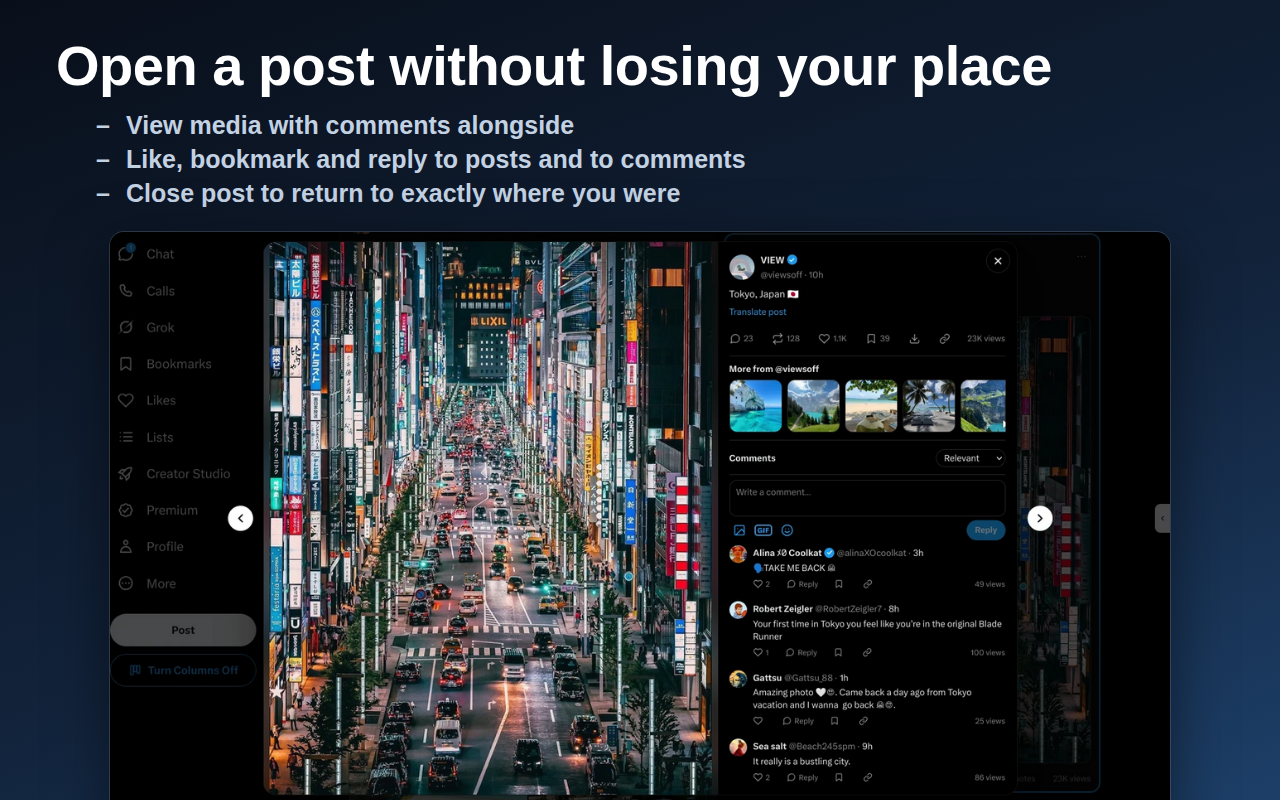
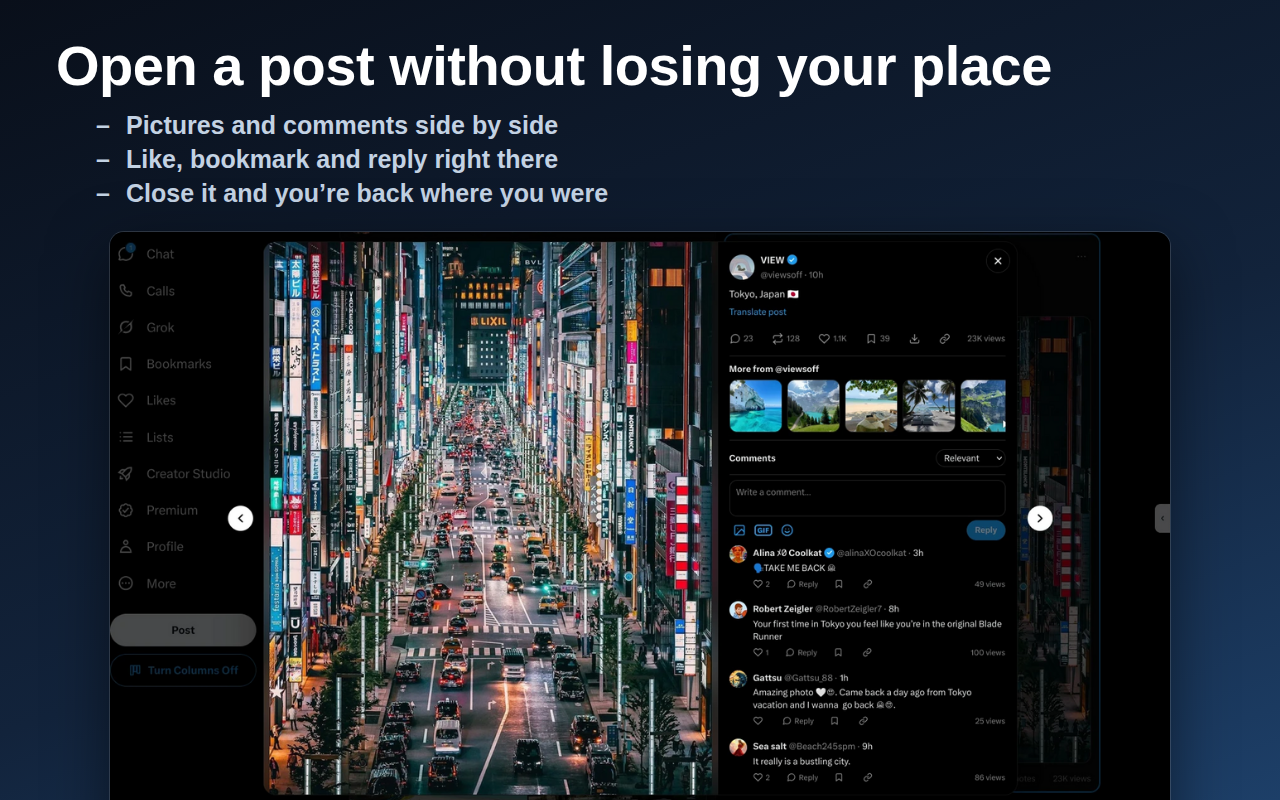
Store: plainer wording for the slides, the listing and the release notes; the themes picture starts under the top bar
Claude-Session: https://claude.ai/code/session_018kEDBPkK9jgvVfS9DEM5ks

Changed region(s): [[0.0938, 0.125, 0.5938, 0.25]]

diff --git a/store/make-slides.js b/store/make-slides.js
@@ -12,16 +12,16 @@ const { chromium } = require('playwright-core');
 const DIR = path.join(__dirname, 'screenshots');
 const OUT = path.join(DIR, 'slides');
 // feed: true marks a shot of the feed itself. The stand-in feed is invented posts on generated art; a real one from X is better there,
-// so these are the ones to replace (own/<same name>.png). The wording is from the "Store slide wording" page.
+// so these are the ones to replace (own/<same name>.png). The wording is plain on purpose: the people reading it want a good extension, not an explanation.
 const SLIDES = [
-  { file: '01-columns', feed: true, title: 'Your feed in columns', bullets: ['See far more at once using the whole screen', 'Columns resize automatically to your screen resolution', 'Hide Trending, Who to follow and Premium boxes'] },
-  { file: '08-reels', title: 'Doomscroll with style', bullets: ['One post at a time, scrolled up and down', 'Videos play with sound and loop', 'Shift + wheel or the arrow keys move to the next post'] },
-  { file: '02-post-panel', title: 'Open a post without losing your place', bullets: ['View media with comments alongside', 'Like, bookmark and reply to posts and to comments', 'Close post to return to exactly where you were'] },
-  { file: '09-reply-tools', title: 'Reply with pictures and emoji', bullets: ['Pictures, GIFs and emoji from the comment box', 'Reply to the post or to any comment in-panel'] },
-  { file: '11-media-wall', title: 'Media tabs as a gallery', bullets: ['Every picture and video in rows, edge to edge', 'Switch between Columns and Gallery in the top bar', 'Open a post, or start Reels from any picture'] },
-  { file: '10-keys', title: 'Browse with your keyboard', bullets: ['Vim keys (j k, w a s d, f to like, o to open) or a simple set', 'Arrow keys step through pictures, then posts', 'Remap any key in settings'] },
-  { file: '13-themes', title: 'Fourteen colour themes', bullets: ['Catppuccin, Gruvbox, Ros\u00e9 Pine, Dracula, Tokyo Night, Nord and more', 'The columns, the post panel and the settings follow', 'Or keep X\u2019s own colours'] },
-  { file: '03-photo-viewer', title: 'Photos and video, done properly', bullets: ['Open photos in a viewer, with Download and Copy link', 'Original-size photos and the best video quality, one click', 'Point at a video for a muted preview'] },
+  { file: '01-columns', feed: true, title: 'Your feed in columns', bullets: ['See far more at once', 'Fits your screen, big or small', 'Hide Trending, Who to follow and Premium'] },
+  { file: '08-reels', title: 'Doomscroll with style', bullets: ['One post at a time, full screen', 'Videos play with sound and loop', 'Next post with the wheel or arrow keys'] },
+  { file: '02-post-panel', title: 'Open a post without losing your place', bullets: ['Pictures and comments side by side', 'Like, bookmark and reply right there', 'Close it and you\u2019re back where you were'] },
+  { file: '09-reply-tools', title: 'Reply with pictures and emoji', bullets: ['Add pictures, GIFs and emoji', 'Reply to the post or to any comment'] },
+  { file: '11-media-wall', title: 'Every picture, in a gallery', bullets: ['Photos and videos in rows, edge to edge', 'Switch between Columns and Gallery any time', 'Open a post, or start Reels from any picture'] },
+  { file: '10-keys', title: 'Browse with your keyboard', bullets: ['Scroll, like and open posts without the mouse', 'Pick a ready-made set of keys', 'Change any key you like'] },
+  { file: '13-themes', title: 'Fourteen colour themes', bullets: ['Catppuccin, Gruvbox, Ros\u00e9 Pine, Dracula, Nord and more', 'Dark or light, to suit you', 'Or keep X\u2019s own colours'] },
+  { file: '03-photo-viewer', title: 'Photos and video, done properly', bullets: ['Open photos big, with Download and Copy link', 'Save full-size photos and the best video in one click', 'Hover over a video for a quiet preview'] },
 ];
 
 // the slide colours ("Ink" on the wording page): near-black blue running up to a mid navy, white headline, a paler tint for the lines under it

diff --git a/store/listing.md b/store/listing.md
@@ -3,66 +3,42 @@
 **Name:** Multi-Column for X
 (Option: "Multi-Column for X (Twitter)". Many people still search for "Twitter", and the add-on this listing is modelled on keeps the word in its name. Your call on the name.)
 
+
 **Summary (max 250 characters):**
-TweetDeck-style columns for X (Twitter): read your feed across the whole screen, open posts in a panel with their comments, download media in one click, and keep “For you” out of the way.
+Your X (Twitter) feed in columns that fill the whole screen. Open posts beside their comments, scroll Reels-style, save photos and videos in one click, and keep the algorithm out of the way.
 
 **Description:** (the first 250 characters matter most; Markdown: bold, lists and links work)
-Multi-Column for X has three aims: let you see far more of X at once, let you open a post without losing your place, and keep the algorithm out of the way.
+Multi-Column for X makes X (Twitter) feel the way it always should have. Your feed spreads across the whole screen in columns, posts open beside their comments so you never lose your place, and the algorithm stays out of the way.
 
-On install a welcome page asks five things on one screen: whether it may run on x.com (Firefox asks), how you want to start (Just columns, Calm with no algorithmic content, Media wall or Reels), which keys (Vim, Simple or none), which colours and whether to skip X's age check (an unticked box, marked 18+ only). Each is only a set of ordinary settings, picked as you choose it, and every one can be changed afterwards.
+**Why you'll like it**
+- **Columns that fit your screen.** See far more at once, from one column to eight. New posts wait behind a button instead of shoving your feed down while you read.
+- **Open a post without losing your place.** The picture sits big next to the comments. Like, bookmark, reply and translate right there, then close it and you're back where you were.
+- **Reply with pictures, GIFs and emoji**, to the post or to any comment.
+- **Reels, if you want them.** One post at a time, full screen, like TikTok. Videos play with sound and loop, and posts you've already seen are skipped.
+- **Photo galleries.** A profile's Media tab as a wall of pictures, edge to edge.
+- **Save in one click.** Full-size photos and the best-quality video, into the folder you choose.
+- **Browse with your keyboard.** Scroll, like, bookmark and open posts without the mouse. Pick a ready-made set of keys, or change any of them.
+- **Fourteen colour themes.** Catppuccin, Gruvbox, Rosé Pine, Dracula, Tokyo Night, Nord and more, dark or light. Or keep X's own colours.
+- **Your feed, your rules.** Start on Following with "For you" tucked away. Mute words and accounts, hide reposts or replies, blur sensitive pictures, and hide Trending, Who to follow and Premium.
+- **And more.** Search your Likes (X has no search there), followers and following as a grid, a bigger text size if you want one.
 
-By default your feed shows in columns that fit your window (up to eight), on the "Following" timeline, with "For you" hidden. Most settings apply the moment you change them, so open the settings page (the gear in the top bar) and make it yours.
+**Ready in a minute**
+A welcome page asks how you'd like to start (just columns, calm, a media wall or Reels), which keys and which colours. Change anything later from the gear in the top bar.
 
-**Columns and layout**
-- Columns fit your window and keep a comfortable width, down to one when the window is narrow. Pick your own number, or a different one for each page.
-- **Nothing jumps around.** New posts wait behind a "N new" button instead of shoving your feed down.
-- **More room:** pressing X's logo folds its left menu to icons, and a tab on the edge slides the right panel away; the columns grow into the space (Alt+[ and Alt+]).
-- **Settings in a panel:** from the toolbar button, or from the gear in the columns' bar over the page; every section folds out of a list, and there is a search.
-- **Smooth.** Posts load ahead of you as you scroll, and photos are ready by the time you get there.
-- **It tells you when X has changed something.** If X changes a button the extension presses, that one feature switches off with a message saying what was not found, instead of silently doing nothing; if the columns cannot work at all, X's own page is shown with a Report button. The settings page has a table of what is working, and "Save sample" keeps what is needed to fix a change.
-- **Easy to read and to press.** A text-size setting for posts and the panel, targets at least 24 px with names for screen readers, nothing moves when you ask for reduced motion, and the settings page has a search box and a Reset for anything you have changed.
-
-**Reading a post**
-- A panel opens over the columns with the picture large on one side and the words, actions and comments on the other. Esc closes it and you are exactly where you were.
-- Several pictures show one at a time with arrows and dots (the wheel and the sides of a picture flick between them). A quoted post opens in the panel too.
-- Comments load as you scroll and can be sorted by relevance, newest or most liked. Like, bookmark and reply to posts and to comments, and translate them with X's own translation.
-- **Reply with pictures, a GIF or emoji** from the comment box, to the post or to any comment, without leaving the panel.
-- **Keys:** the Vim set is the one the welcome page offers first: j k scroll, gg G, Ctrl+D and Ctrl+U, w a s d move a ring over the posts (the arrow keys do too, and so does the mouse: a key acts on the post under the pointer), o opens, f likes, b bookmarks, q copies the link, r starts Reels, ? lists every key. The Simple set (A S W E Q C in a post's panel) and no keys at all are the other two. ← → go through a post's pictures and then the posts, Shift and the wheel step through the posts from anywhere on the panel, M mutes the video. You can change any key in Settings, Keyboard.
-- **Reels view (optional):** like TikTok. One post at a time fills the page, scrolled up and down; videos play with sound and loop; posts you have already seen are skipped; a switch at the top changes between For you and Following; the menu and side panel fold away while it is up; double-click a picture or video to like it. It works on a profile too (a Reels button in its bar): that account's pictures and video, one at a time. It is one of the starting points below.
-- **Search on Likes:** X has none there. A search box, a chip for each account and Pictures, Video and Links narrow the likes that have loaded, with a button to read older ones when you ask. Bookmarks gets the chips (X searches those itself) and, like Search, a Reels button.
-- **Gallery (optional):** a profile's Media tab as rows of pictures, edge to edge, instead of columns of posts; a switch in the bar.
-- **Followers and Following as a grid:** the people as cards with their bios in narrow columns, a search, and a choice of the ones who do not follow back.
-- **A profile's header as a card** at the top of the columns, with its Follow, notification and More buttons pressing X's own.
-
-**Video and media**
-- Video and GIFs play in the post. Pointing at a video plays it muted; pressing it turns the sound on and carries on; a speaker button turns sound on or off.
-- Photos open in a viewer with Download and Copy link.
-- **Download** original-size photos and the best-quality video in one click, with your own folder and file-name pattern.
-
-**Filters (defaults marked)**
-- Following timeline, "For you" hidden (default).
-- Only accounts you follow, mute words and accounts, show or hide reposts, quotes and replies, sensitive media blurred (default), shown or hidden. An optional **NSFW only** choice in the Show menu keeps just the posts X marks as sensitive.
-- Profile Videos / Photos and Following's Popular / Recent work from the top bar.
-- Reading options, all off by default: a separate column count for each page, hide or fade posts you have already read, one card when several people repost the same post.
-
-**Tidy-ups**
-- Hide Trending, Who to follow, Topics and Premium boxes; hide any item in X's left menu; add Bookmarks, Likes and Lists to it.
-- **Colour themes:** fourteen, for the columns, the post panel and the settings: Catppuccin (Mocha, Macchiato, Frappé, Latte), Gruvbox (dark and light), Rosé Pine (and Dawn), Dracula, Tokyo Night, Nord, Everforest, Kanagawa Wave and a Dark Academia of our own; X's own colours by default.
-- The theme goes on X's own pages too (a post's page, profiles, notifications), so nothing drops you back into X's black; one setting turns that off. Pictures and video are left alone.
-- Japanese, Korean and Chinese posts are set in a sans-serif (gothic) face.
-- Use the bird logo and "Tweet" wording, or X's own; custom CSS.
-- Sensitive media: an option, off until you tick it (the welcome page offers it, marked 18+ only), turns off X's own age-verification flag in your browser, so X shows its older "sensitive content" notice instead of asking for verification. It is for adults; leave it off to keep X's check.
-
-**Private by design**
-No data collected. No analytics, no accounts, no remote code. Everything stays in your browser (a short log for Copy diagnostics is kept there too, and can be switched off). Open source (MIT): https://github.com/Lynchalot/multi-column-for-x
+**Private**
+No tracking, no accounts, no data collected. Everything stays in your browser. Open source (MIT): https://github.com/Lynchalot/multi-column-for-x
 
 **Good to know**
-It works with what X's own page already loads, so if X redesigns something a small piece may need an update: report it on GitHub (Copy diagnostics, in a post's ... menu, says what happened) and it gets fixed. Press the Columns button in X's left menu to switch back to X's normal feed at any time. It needs a window wide enough for at least two columns to be worth using; it does not run on phones.
+- Firefox asks once whether it may run on x.com. Say yes and you're set.
+- One press of the Columns button in X's left menu takes you back to normal X.
+- It needs a window wide enough for two columns, and it doesn't run on phones.
+- If X changes its site, something may stop working until an update. Tell us on GitHub and it gets fixed.
+- For adults only: an optional setting, off by default, skips X's age-check prompt.
 
 X and Twitter are trademarks of X Corp. This add-on is not affiliated with, endorsed by, or sponsored by X Corp.
 
 **Release notes (current version):**
-Columns on Home, Search, Lists, Bookmarks and profiles; a post panel with its picture, comments (loading as you scroll), like, bookmark, reply (with pictures, a GIF or emoji) and translate; video in the post; a Reels view; Vim and simple keys; one-click media downloads; filters, including an optional NSFW only view; fourteen colour themes; a welcome page for the first run; followers as a grid; a gallery for Media tabs; Bookmarks, Likes and Lists in the left menu; a menu for narrow windows; a settings page.
+Your X feed in columns, posts that open beside their comments, replies with pictures, GIFs and emoji, Reels, a gallery for photos, one-click downloads, keyboard keys, fourteen colour themes and a welcome page to set it all up.
 
 **Screenshots** (upload the headline slides in `store/screenshots/slides/`, in this order; `node store/make-screenshots.js` then `node store/make-slides.js` makes them: 1280x800. All eight are real shots of X (public posts; the owner's own profile at the foot of X's menu is blurred out: `store/own-shots.json` names the sources, the blurred places and the cut, `node store/prepare-own.js <folder>` makes `store/screenshots/own/*.png`, and `make-slides.js` uses those in place of the generated shot of the same name; a slide with no entry there falls back to a generated shot with invented accounts and posts). The plain shots are in `store/screenshots/` if you want any without a headline; the wording is in `SLIDES` in `store/make-slides.js`):
 1. `01-columns.png` Your feed in columns.

diff --git a/store/release-notes.md b/store/release-notes.md
@@ -3,14 +3,12 @@
 Short, for the box on the upload page; the full history is CHANGELOG.md.
 
 **First public upload (written at 0.48.7; use the version number you upload):**
-- Your X feed in columns on Home, Search, Lists, Bookmarks and profiles. New posts wait behind a "N new" button; nothing jumps.
-- A welcome page on install: allow x.com, how to start (Just columns, Calm, Media wall, Reels), the keys (Vim, Simple, none), the colours, and X's age check (off unless you tick it; 18+ only).
-- Posts open in a panel with the picture, the comments, like, bookmark, reply (pictures, GIF, emoji) and translate. Esc puts you back where you were.
-- Reels: one post at a time, scrolled up and down. Works on a profile too.
-- Vim keys (j k, gg G, w a s d or the arrows over the posts, f like, q copy link, r Reels, ? for the list) or the Simple set; every key can be changed.
-- Followers and Following as a grid, a gallery for Media tabs, search on Likes, NSFW only in the Show menu (an option).
-- Fourteen colour themes, or X's own colours. Japanese, Korean and Chinese posts use a sans-serif face.
-- One-click download of original-size photos and the best video, into a folder and with a file name you choose.
-- Click X's logo to fold its menu to icons; Alt+[ and Alt+] too.
-- When X changes something the extension depends on, that one feature switches off with a message, or the columns hand back X's own page with a Report button. Settings, Troubleshooting has a table of what is working.
-- No data collected, no network requests of its own, no remote code.
+- Your X feed in columns on Home, Search, Lists, Bookmarks and profiles. New posts wait behind a button; nothing jumps.
+- A welcome page that sets it up in a minute: how to start, which keys, which colours.
+- Posts open beside their comments. Like, bookmark, reply (with pictures, GIFs and emoji) and translate, then close it and you're back where you were.
+- Reels: one post at a time, full screen.
+- Keyboard keys, or none, and you can change any of them.
+- A gallery for photos, followers as a grid, search on Likes.
+- Fourteen colour themes, or X's own colours.
+- One-click download of full-size photos and the best video.
+- No data collected, no tracking.
